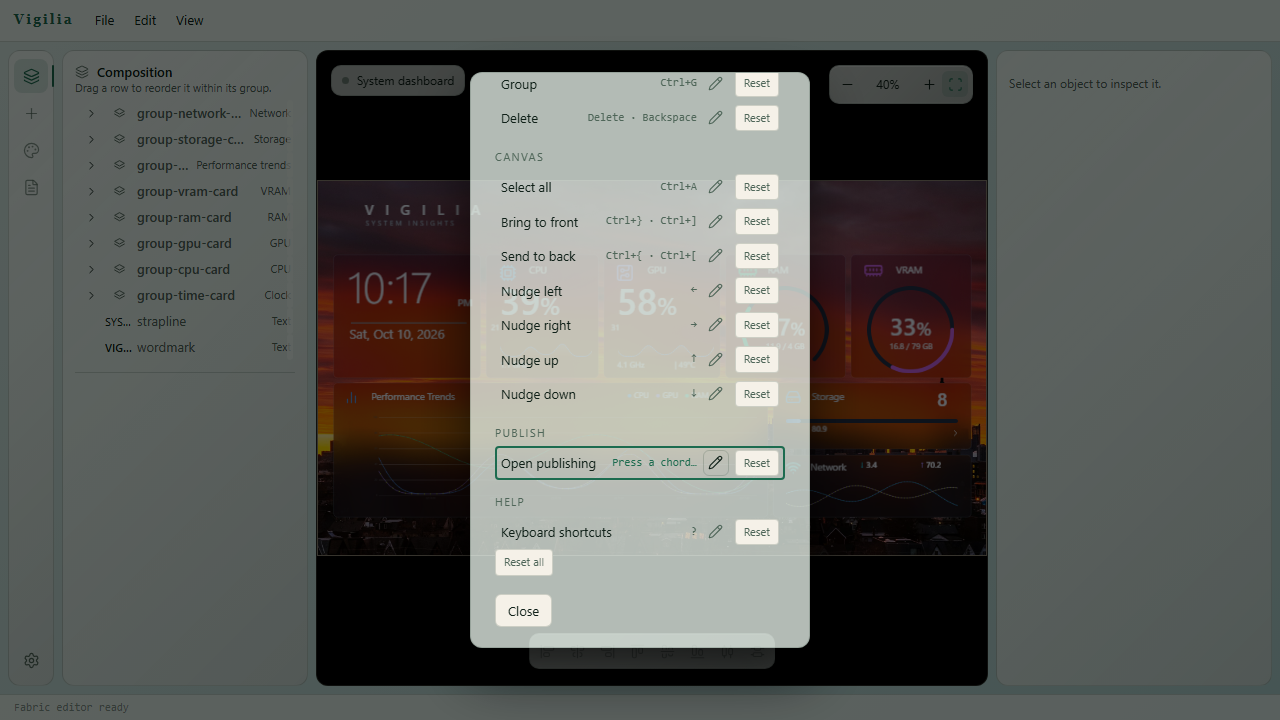
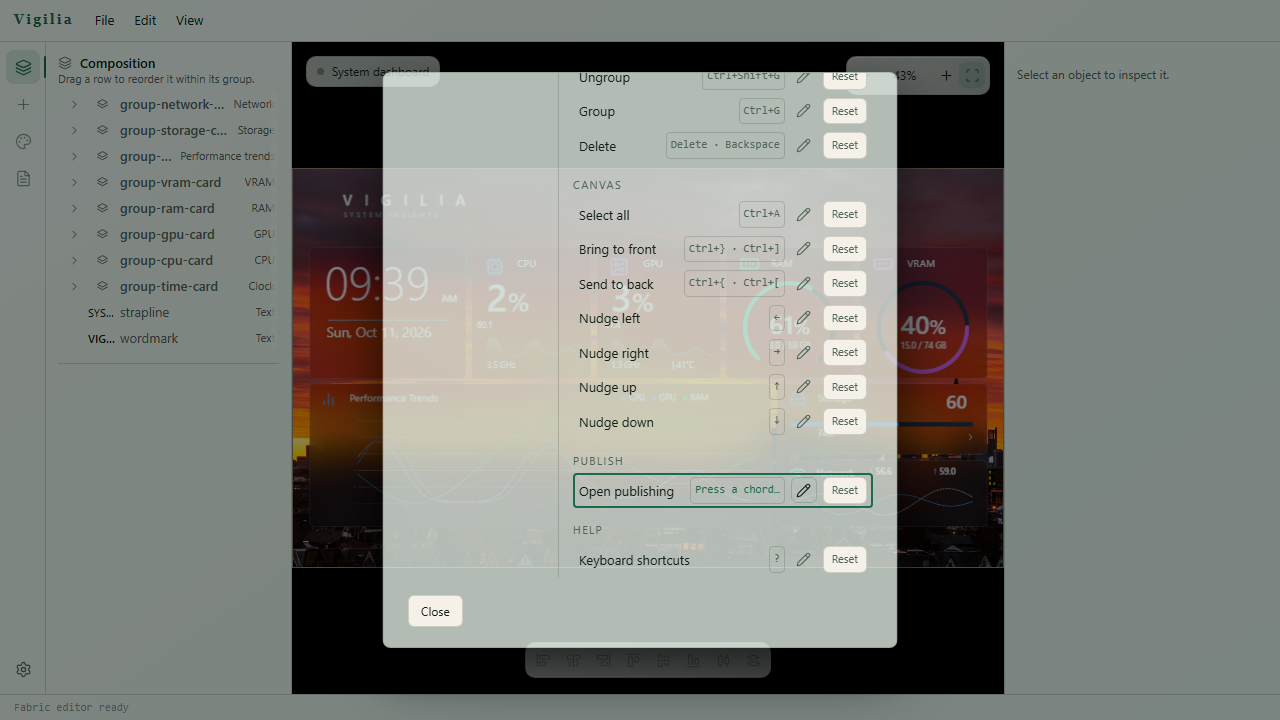
fix(editor): the Keyboard panel's chord mark and both reset actions are the drawing's
Plan 8 Task 7, the last Phase B task, and the four rows it owns.

The drawing (`current/settings-keyboard.html`, Task 4's file) draws a
**bordered chord chip** at `--radius-sm` inset 4px on all four sides, a
**panel header** carrying the tab's glyph, the panel's name and "Reset all"
at the trailing edge, and both return-to-default actions at `--radius-md`.
The product rendered a bare `<kbd>`, put "Reset all" after the twentieth
row, and drew both actions at `--radius-sm`.

- `.editor-shell-keyboard kbd` takes the chip: `padding: var(--space-4)`
  (**one value, not `4px 6px`** — the row reads the computed shorthand and a
  mixed one has no reading), `1px solid var(--shell-edge)`,
  `var(--radius-sm)`. **Scoped to this panel**, not the shared
  `.editor-shell-dialog kbd`: the `?` sheet renders that rule and no drawing
  in `current/` draws the sheet, so the sheet's bare mark stays Task 3's.
- `.editor-shell-keyboard-action` takes `var(--radius-md)`; §3's table gives
  6px to "Controls" and a button is a control.
- "Reset all" moves from the tab's foot into the panel's header. Census
  `#13`: the placement is a shape the drawing now draws, so §13.1's licence
  is not in play. The per-row Reset stays — the drawing draws it on every
  row (census `#15`), so nothing is being justified against an absence.

Four rows green, no failing region:
`npx playwright test tests/e2e/design-language.spec.ts --project=desktop-chromium
[…]

diff --git a/src/web/tests/e2e/keyboard.spec.ts b/src/web/tests/e2e/keyboard.spec.ts
@@ -1,4 +1,6 @@
 import { expect, test, type Page } from "@playwright/test";
+import { shortcutLabel } from "../../packages/editor/src/shortcut-manager/display.js";
+import { SHORTCUT_LABELS } from "../../packages/editor/src/shortcut-manager/reference.js";
 import { uiCopy } from "../../packages/editor/src/ui-copy.js";
 import { chooseIn } from "./control-set.js";
 import { captureVisualReview, enterLayer } from "./editor-canvas.js";
@@ -190,6 +192,122 @@ async function pixelsAt(
   if (read === null) throw new Error("the viewport could not be captured");
   return read as readonly Rgba[];
 }
+
+test("the Keyboard tab's four states, and the sheet's chord mark that did not move", async ({
+  page,
+}, testInfo) => {
+  // Spec §13.1: a screenshot proves one rendered state, not the behaviour behind
+  // it, and every surface owner also proves its applicable states. The armed
+  // row is the one the `keyboard-armed-row` capture shows (the test above); the
+  // four here are **driven**, and the capture is not read as proving any of
+  // them. The behaviour under each — what a capture refuses, what a rebind
+  // writes — is `settings-keyboard.dom.test.tsx`'s; this is the rendered half.
+  test.skip(!isDesktopSurface(testInfo), "the editor is a desktop surface");
+
+  await openShell(page);
+  const dialog = page.getByRole("dialog", SETTINGS_DIALOG);
+  await page.locator(SETTINGS_GEAR).click();
+  await expect(dialog).toBeVisible();
+  await dialog.getByRole("tab", { name: uiCopy.settings.keyboard }).click();
+
+  const row = dialog.locator('[data-vigilia-shortcut-row="publish.surface"]');
+  const chip = row.locator("kbd");
+  const arm = dialog.locator('[data-vigilia-shortcut-arm="publish.surface"]');
+  // The node is present while the row is armed even when it says nothing, so an
+  // empty one is the state before a refusal rather than an absent feature.
+  const refusal = row.locator('[data-vigilia-shortcut-reason][role="alert"]');
+
+  // ── 1. Empty overrides ───────────────────────────────────────────────────
+  // Proves the panel renders the drawing's own state: every chord is its
+  // default, and the header's return-to-default action is offered with nothing
+  // to return. The store is read too, because "no row is rebound" is a claim
+  // about what was stored and the marks alone cannot say it.
+  const storedShortcuts = await page.evaluate(() =>
+    Object.keys(window.localStorage).filter((key) => key.includes("shortcut")),
+  );
+  expect(
+    storedShortcuts,
+    "an override is already stored, so this is not the empty state",
+  ).toEqual([]);
+  await expect(chip).toHaveText(shortcutLabel("publish.surface"));
+  await expect(
+    dialog.locator("[data-vigilia-shortcut-reset-all]"),
+  ).toBeVisible();
+
+  // ── 2. An armed row ──────────────────────────────────────────────────────
+  // Proves the capture is listening where the press will land: the row takes
+  // focus inside the modal's trap, marks itself armed, and its mark stops
+  // printing a chord and starts asking for one.
+  await arm.click();
+  await expect(row).toHaveAttribute("data-armed", "");
+  await expect(row).toBeFocused();
+  await expect(chip).toHaveText(uiCopy.settings.keyboardPrompt);
+  await expect(refusal, "a refusal is rendered before one was made").toHaveText(
+    "",
+  );
+
+  // ── 3. A refusal in the armed row ────────────────────────────────────────
+  // §9's reason and role: the sentence lands in the row that refused, names the
+  // action that holds the chord, and the row stays armed so the author can press
+  // the chord they meant. Ctrl+O is `file.open`'s default.
+  await page.keyboard.press("Control+o");
+  await expect(refusal).toHaveText(
+    uiCopy.settings.keyboardTaken(SHORTCUT_LABELS["file.open"]),
+  );
+  await expect(row).toHaveAttribute("data-armed", "");
+  await expect(chip).toHaveText(uiCopy.settings.keyboardPrompt);
+
+  // ── The `?` sheet's chord mark, which Step 3 of the task must not move ────
+  // The panel's chip is scoped to `.editor-shell-keyboard`, and the sheet
+  // renders the shared `.editor-shell-dialog kbd` rule with no drawing behind
+  // it. Read as a computed style rather than inspected: the shared rule is what
+  // a change made for the modal would have moved by accident.
+  await page.keyboard.press("Escape");
+  await expect(dialog).toBeHidden();
+  await page.keyboard.press("?");
+  const sheet = page.getByRole("dialog", { name: uiCopy.shortcuts.reference });
+  await expect(sheet).toBeVisible();
+  const sheetChip = await sheet
+    .locator("kbd")
+    .first()
+    .evaluate((element) => {
+      const style = getComputedStyle(element);
+      return {
+        padding: style.padding,
+        borderWidth: style.borderTopWidth,
+        borderRadius: style.borderRadius,
+      };
+    });
+  expect(
+    sheetChip,
+    "the sheet's chord mark moved with the modal's chip, and no drawing governs the sheet",
+  ).toEqual({ padding: "0px", borderWidth: "0px", borderRadius: "0px" });
+  await page.keyboard.press("Escape");
+  await expect(sheet).toBeHidden();
+
+  // ── 4. Storage refused (session-only) ────────────────────────────────────
+  // The one state the editor cannot reach by clicking: `readStorage` answers
+  // `undefined` only where the browser refuses the store, so the refusal is what
+  // is planted, and the editor boots into it. What it proves is that the panel
+  // states the limit instead of implying a saved preference — and that the
+  // rebind still works for the session, which is the branch the unit suite
+  // holds and this reading names.
+  await page.addInitScript(() => {
+    Object.defineProperty(window, "localStorage", {
+      configurable: true,
+      get() {
+        throw new Error("the browser refused local storage");
+      },
+    });
+  });
+  await openShell(page);
+  await page.locator(SETTINGS_GEAR).click();
+  await expect(dialog).toBeVisible();
+  await dialog.getByRole("tab", { name: uiCopy.settings.keyboard }).click();
+  await expect(dialog.locator(".editor-shell-keyboard-notice")).toHaveText(
+    uiCopy.settings.keyboardSessionOnly,
+  );
+});
 
 test("every canvas action's tooltip names the chord that runs it", async ({
   page,

diff --git a/src/web/packages/editor/src/editor-shell/editor-shell.css b/src/web/packages/editor/src/editor-shell/editor-shell.css
@@ -1507,6 +1507,31 @@ body,
   outline-offset: 2px;
 }
 
+/* The panel's own header, as the Keyboard drawing draws it
+   (`current/settings-keyboard.html`): the tab's glyph in the accent, the panel's
+   name, and the return-to-default action at the trailing edge. **The action's
+   home is the drawing's** — the reference puts "Reset all" here, not at the
+   tab's foot, where it followed twenty rows the author had to scroll past to
+   find the one act that is about all of them. */
+.editor-shell-keyboard-header {
+  display: flex;
+  align-items: center;
+  gap: var(--space-8);
+  padding: 0 0 var(--space-12);
+  border-bottom: 1px solid var(--shell-edge);
+}
+.editor-shell-keyboard-header > svg {
+  color: var(--shell-accent);
+}
+.editor-shell-keyboard-header > span {
+  font-size: var(--text-sm);
+  font-weight: 600;
+  color: var(--shell-text);
+}
+.editor-shell-keyboard-header > .editor-shell-keyboard-action {
+  margin-left: auto;
+}
+
 /* The settings modal's Keyboard tab (§7). The rows reuse the dialog's `dl`
    rhythm — the tab renders the same reference the `?` sheet does — and add the
    three things the sheet has no use for: the armed row's ring, the chip that
@@ -1518,6 +1543,25 @@ body,
   display: flex;
   align-items: center;
   gap: var(--space-6);
+}
+/* The chord mark, as the Keyboard drawing draws it: a bordered chip at
+   `--radius-sm`, inset `4px` on **all four sides**.
+
+   **Scoped to this panel, not on the shared `.editor-shell-dialog kbd`.** The
+   `?` sheet renders that rule too and no drawing in `current/` draws the sheet,
+   so the sheet's bare mark keeps Task 3's reading rather than being moved by a
+   surface nothing governs. §2 (`design-language.md:38`) — "Values are mono …
+   chord marks" — is the predating rule that a chord is a value; the chip is the
+   drawing's, and the class is §5 (`:154`)'s icon button beside it, not this.
+
+   **The inset is one value, not `4px 6px`.** The parity row reads the element's
+   computed `padding` *shorthand*, and `lengthInPx` answers `null` for a mixed
+   shorthand, so a chip inset unevenly would fail the row for being unreadable
+   rather than for being wrong. */
+.editor-shell-keyboard kbd {
+  padding: var(--space-4);
+  border: 1px solid var(--shell-edge);
+  border-radius: var(--radius-sm);
 }
 .editor-shell-keyboard [data-vigilia-shortcut-row] {
   /* Centred rather than the sheet's baseline: a row here carries a 26px
@@ -1542,7 +1586,10 @@ body,
 .editor-shell-keyboard-action {
   padding: var(--space-4) var(--space-8);
   border: 1px solid var(--shell-edge);
-  border-radius: var(--radius-sm);
+  /* §3 radius table (`design-language.md:91`) — `--radius-md` 6px is "Controls",
+     and a button is a control; the drawing draws both return-to-default actions
+     at 6px (`current/settings-keyboard.html`), one act being one control. */
+  border-radius: var(--radius-md);
   background: var(--vigilia-control-bg);
   color: var(--shell-muted);
   font: inherit;

diff --git a/src/web/packages/editor/src/editor-shell/settings-keyboard.tsx b/src/web/packages/editor/src/editor-shell/settings-keyboard.tsx
@@ -1,4 +1,4 @@
-import { Pencil } from "lucide-react";
+import { Keyboard, Pencil } from "lucide-react";
 import { type KeyboardEvent, useEffect, useRef, useState } from "react";
 import { ControlIconButton } from "../components/ui/control-icon-button.js";
 import {
@@ -148,6 +148,31 @@ export function SettingsKeyboard(props: {
 
   return (
     <div className="editor-shell-keyboard" data-vigilia-keyboard="">
+      {/* The panel's header, as the drawing draws it
+          (`current/settings-keyboard.html`): the glyph, the name, and "Reset all"
+          at the trailing edge. **The action moved here from the tab's foot.** The
+          foot put the one act that is about every row after the twentieth row,
+          so an author had to scroll past the table to reach it; the reference
+          puts it in the header, which is also where a reader looks for an act
+          that is not about any one row. The glyph is the tab's own
+          (`settings.tsx`'s `SETTINGS_TAB_GLYPHS`), so the panel and the tab that
+          opens it cannot disagree. */}
+      <div className="editor-shell-keyboard-header">
+        <Keyboard aria-hidden size={14} strokeWidth={1.7} />
+        <span>{uiCopy.settings.keyboard}</span>
+        <button
+          type="button"
+          className="editor-shell-keyboard-action"
+          data-vigilia-shortcut-reset-all=""
+          onClick={() => {
+            if (storage !== undefined) clearShortcutOverrides(storage);
+            onOverrides({});
+            disarm();
+          }}
+        >
+          {uiCopy.settings.keyboardResetAll}
+        </button>
+      </div>
       {shortcutReferenceGroups().map((group) => (
         <section key={group.label}>
           <h3>{group.label}</h3>
@@ -245,18 +270,6 @@ export function SettingsKeyboard(props: {
           </dl>
         </section>
       ))}
-      <button
-        type="button"
-        className="editor-shell-keyboard-action"
-        data-vigilia-shortcut-reset-all=""
-        onClick={() => {
-          if (storage !== undefined) clearShortcutOverrides(storage);
-          onOverrides({});
-          disarm();
-        }}
-      >
-        {uiCopy.settings.keyboardResetAll}
-      </button>
       {storage === undefined ? (
         <p className="editor-shell-keyboard-notice">
           {uiCopy.settings.keyboardSessionOnly}

diff --git a/src/web/tests/e2e/mockup-values.test.ts b/src/web/tests/e2e/mockup-values.test.ts
@@ -108,8 +108,13 @@ test("the two shapes the field row is not are read from the drawing that draws e
   // `flex:1` inside a `--panel-2` panel at `--radius-lg`, with no label column.
   // That absence is the reading — a row that took the field row's 74px column
   // wrapped "Follow the system" onto a second line.
+  //
+  // **The inset in this address is Task 6's `8px`, not the `9px` it was
+  // written with.** The drawing's `9px` was off §3's scale and the drawing was
+  // the stale side (`vg-303`), so the declaration changed under the address
+  // while the row's own subject — the radius and the gap below — did not.
   const BOXED_ROW =
-    '[style*="display:flex;align-items:center;gap:10px;padding:9px 10px;background:var(--panel2);border:1px solid var(--edge);border-radius:8px"]';
+    '[style*="display:flex;align-items:center;gap:10px;padding:8px 10px;background:var(--panel2);border:1px solid var(--edge);border-radius:8px"]';
   expect(mockupDeclared(settings, BOXED_ROW, "border-radius")).toBe("8px");
   expect(mockupDeclared(settings, BOXED_ROW, "gap")).toBe("10px");
 
